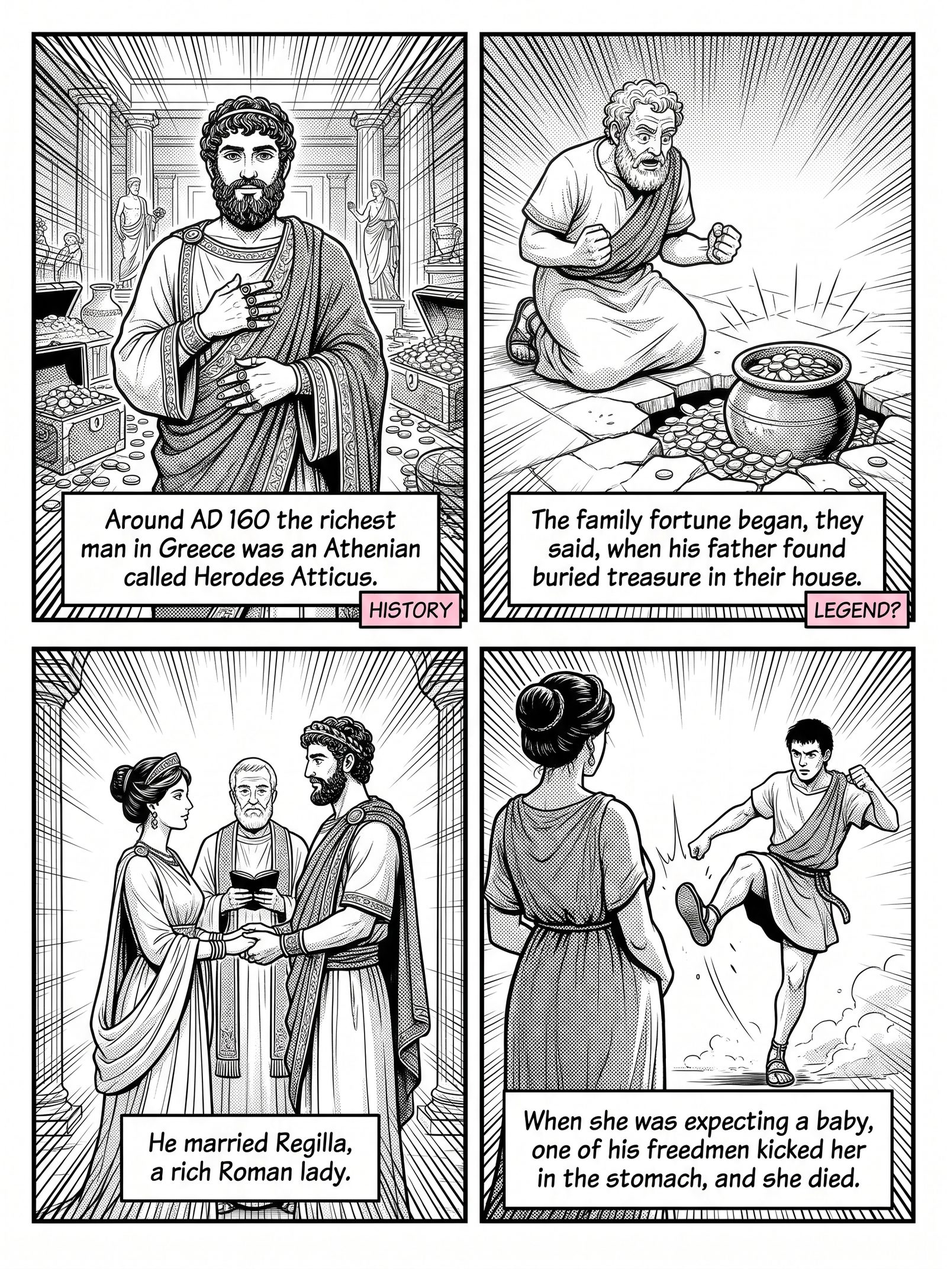
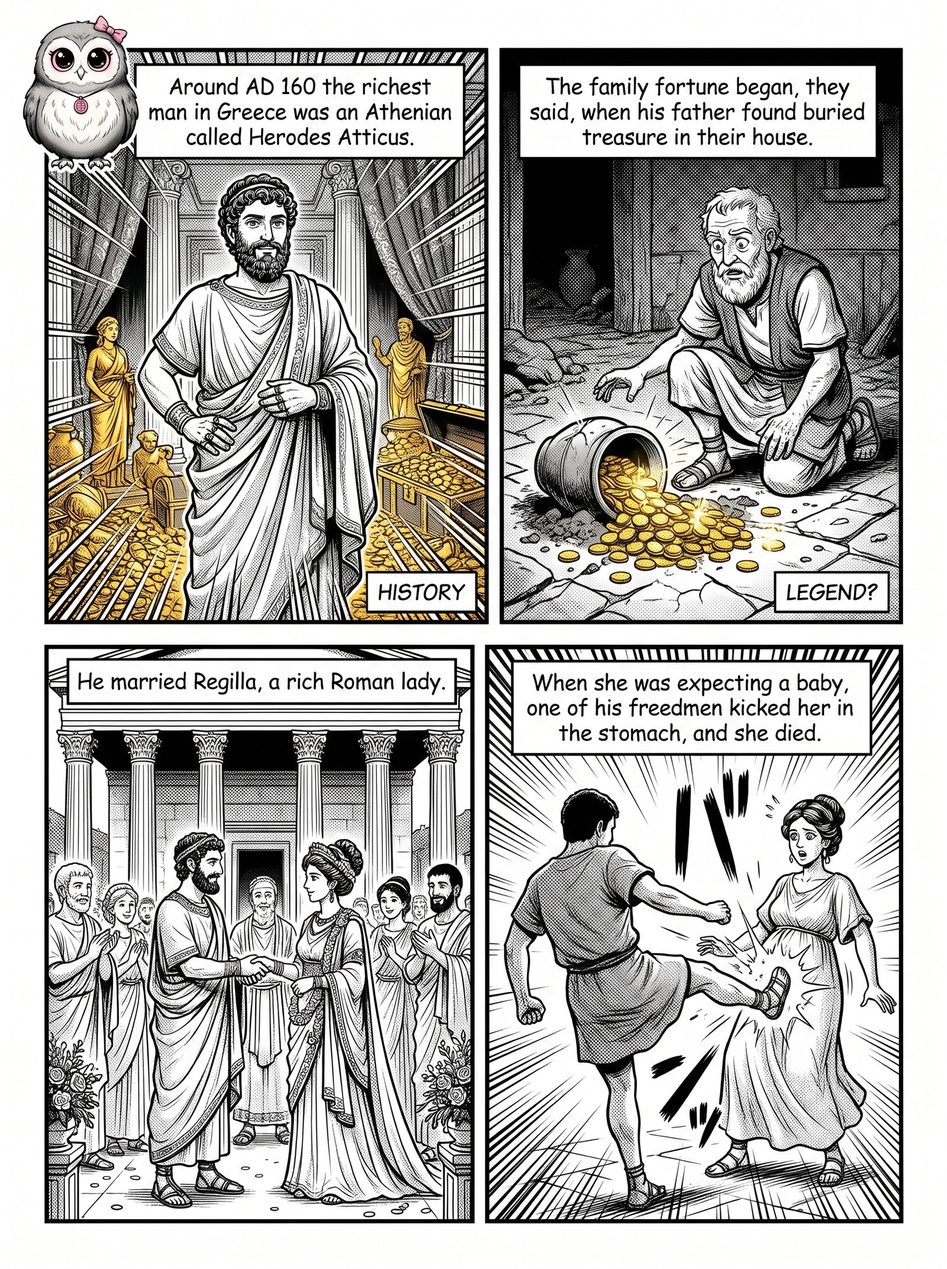
Rooftop fix, name hint, Furies, comic fixes, pixel Bacchae

diff --git a/js/wardrobe.js b/js/wardrobe.js
@@ -72,9 +72,9 @@ export async function openWardrobe(opts = {}) {
   // ---- layout
   const viewBox = el('div', { class: 'wd-view' }), owlsEl = el('span', { class: 'wd-owls' }), detail = el('div', { class: 'wd-detail' });
   const tabsEl = el('div', { class: 'wd-tabs' }), grid = el('div', { class: 'wd-grid' });
-  const nameIn = el('input', { type: 'text', maxlength: 14, placeholder: 'Your name', autocomplete: 'off', class: 'wd-name', oninput: e => { name = e.target.value.trim(); doneBtn.disabled = first && !name; } });
+  const nameIn = el('input', { type: 'text', maxlength: 14, placeholder: 'Your name', autocomplete: 'off', class: 'wd-name', oninput: e => { name = e.target.value.trim(); nameIn.classList.toggle('need', first && !name); } });
   const doneBtn = el('button', { class: 'btn go', text: first ? 'Start' : 'Done', onclick: () => finish() });
-  if (first) doneBtn.disabled = true;
+  if (first) nameIn.classList.add('need');   // the empty name box glows: it is the first thing to do
   let chosenSpeed = 'normal'; const speedEl = first ? el('div', { class: 'wd-speed' }, el('small', { text: 'Reading speed' }), speedPicker(v => { chosenSpeed = v; }, 'normal')) : null;
   const bar = el('div', { class: 'wd-bar' }, first ? nameIn : null, speedEl, el('span', { class: 'wd-grow' }), owlsEl, doneBtn);
   const turn = el('div', { class: 'wd-turn' },
@@ -86,7 +86,7 @@ export async function openWardrobe(opts = {}) {
 
   function teardown() { if (view) { view.dispose(); view = null; } saving = -1; }
   async function finish() {
-    if (first && !store.me) { if (!name) return; addPlayer(name, Object.assign({}, costume)); const p = me(); p.outfit = {}; p.readSpeed = chosenSpeed; touch(store.me); }
+    if (first && !store.me) { if (!name) { nameIn.classList.remove('shake'); void nameIn.offsetWidth; nameIn.classList.add('shake'); nameIn.focus(); ui.toast('Type your name first', 2200); return; } addPlayer(name, Object.assign({}, costume)); const p = me(); p.outfit = {}; p.readSpeed = chosenSpeed; touch(store.me); }
     else persist();
     teardown(); ui.closeOverlay(); sfx.tap(); refreshButton();
     if (opts.onDone) opts.onDone(); else if (first && G && G.afterPick) G.afterPick();

diff --git a/js/game.js b/js/game.js
@@ -220,7 +220,8 @@ export class Game {
     // only a cartoon figure that something in front actually overlaps needs its own layer; the rest go on top at the end (cheaper on older iPads)
     const hit = (a, b) => a && b && a.x0 < b.x1 && a.x1 > b.x0 && a.y0 < b.y1 && a.y1 > b.y0;
     const rectOf = e => e.box || { x0: e.toca.x - 14, y0: e.toca.y - e.toca.h, x1: e.toca.x + 14, y1: e.toca.y + 2 };
-    const cut = (sc || this.trans) ? tocas : tocas.filter(c => { const r = rectOf(c); for (let i = ents.indexOf(c) + 1; i < ents.length; i++) { const e = ents[i]; if (hit(r, e.toca ? rectOf(e) : e.box)) return true; } return false; });
+    const occ = W.occluders || [], behind = r => occ.some(o => r.y1 - 2 < o.feet && o.x < r.x1 && o.x + o.w > r.x0 && o.y < r.y1 && o.y + o.h > r.y0);   // baked-in buildings drawn over figures behind them
+    const cut = (sc || this.trans) ? tocas : tocas.filter(c => { const r = rectOf(c); if (behind(r)) return true; for (let i = ents.indexOf(c) + 1; i < ents.length; i++) { const e = ents[i]; if (hit(r, e.toca ? rectOf(e) : e.box)) return true; } return false; });
     const late = tocas.filter(c => !cut.includes(c));
     if (!cut.length) { for (const e of ents) e.draw(); }
     else {   // cartoon pilot: present what is behind each smooth figure, draw the figure on the screen canvas, then carry on in front of it

diff --git a/css/wardrobe.css b/css/wardrobe.css
@@ -41,3 +41,8 @@
 @media (max-height: 560px) { .wd-tile { width: 80px; } .wd-pic { width: 54px; height: 54px; } .panel.big.wd h2 { display: none; } }
 .athumb{width:110px;height:110px;image-rendering:auto}.thumbbox{display:flex;align-items:center;gap:6px}
 .thumbbox .tport{width:96px;height:96px;object-fit:cover;border:3px solid var(--edge);border-radius:12px;background:#f6ecd6;image-rendering:auto}.thumbbox canvas.pv{image-rendering:pixelated}
+
+.wd-name.need { box-shadow: 0 0 0 3px #ffd23f, 0 0 14px 4px rgba(255,210,63,.7); animation: wdglow 1.4s ease-in-out infinite; }
+@keyframes wdglow { 50% { box-shadow: 0 0 0 3px #ffd23f, 0 0 4px 1px rgba(255,210,63,.3); } }
+.wd-name.shake { animation: wdshake .4s; }
+@keyframes wdshake { 25% { transform: translateX(-6px); } 75% { transform: translateX(6px); } }
